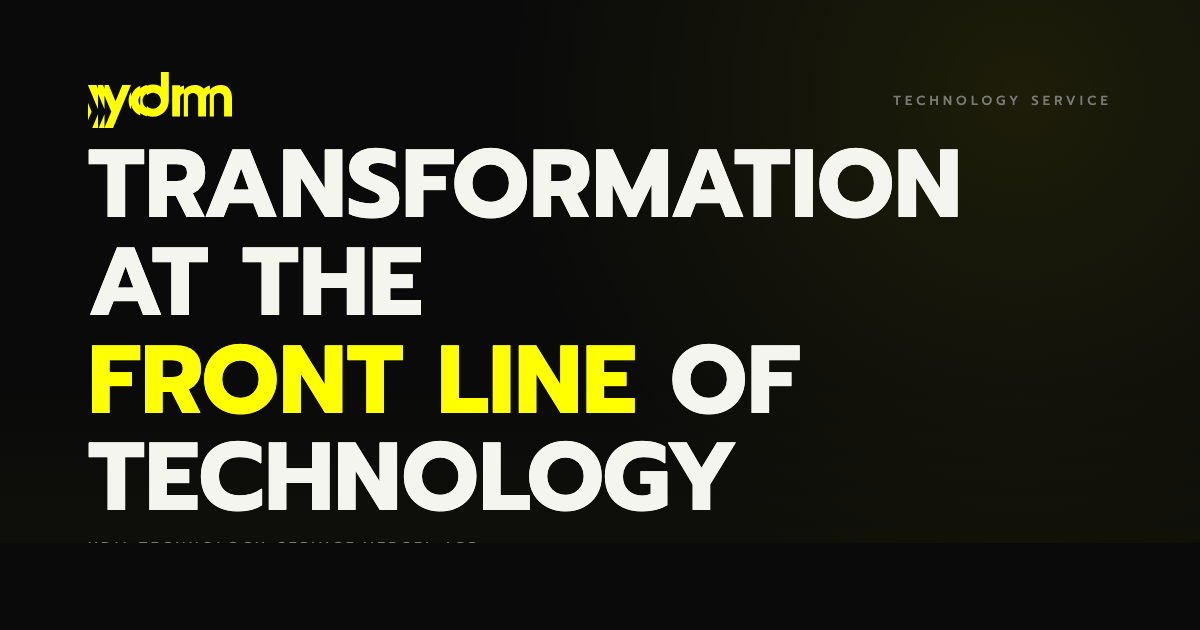
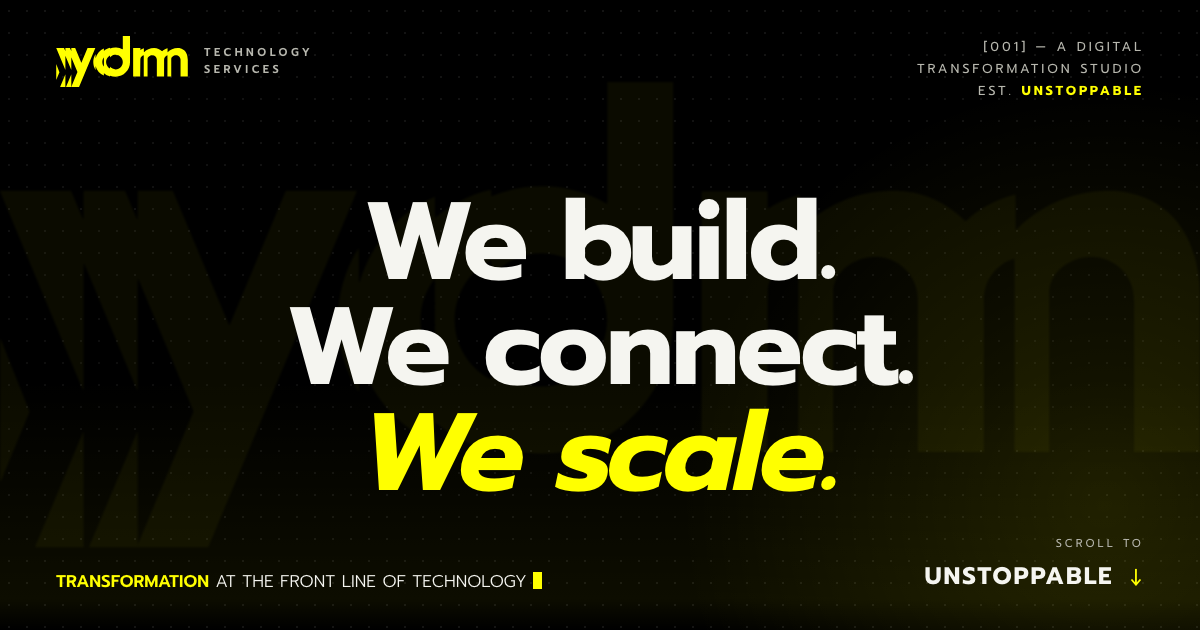
chore: refresh og-image to match new hero, document headless render quirks
OG now mirrors the current hero — three-line "We build / We connect / We scale"
headline, [001] meta, lead + scroll indicator — with a faint YDM watermark and
ASCII-grid texture. CLAUDE.md notes the 1200,720 + Swift top-left crop recipe
since headless Chrome silently clips ~90px at 1200,630.

Changed region(s): [[0.0308, 0.0, 0.9558, 0.8143], [0.0308, 0.9048, 0.4625, 0.9349], [0.7708, 0.8444, 0.9558, 0.9349]]

diff --git a/CLAUDE.md b/CLAUDE.md
@@ -139,7 +139,7 @@ Solution stack always calls all three from `updateBgState` so they stay in sync 
 - **`.section-bg` and `.solution-ascii` are hidden by a TEMP CSS block** in the style block — the BG-video stack at z:-2 + the hero canvas overlay replace their roles. The original markup is preserved in case the design reverts. The TEMP block is labelled `/* TEMP: ... */` and is the single place to remove if you want the slot-internal video, gradient overlay, and burst-canvas behavior back.
 - **Solution BG videos must NOT live inside `.solution-stage`.** Sticky position creates a stacking context that traps internal z-indexes — videos at z:-2 inside the stage still paint above the hero canvas at viewport z:-1. The fixed `.solution-bg-stack` outside the stage is the workaround.
 - **`updateBgState` is the single source of truth** for syncing BG video, hero rain, hero wall alpha, and wall-sweep trigger to the active slot. Both `onScroll` (passes scroll-direction `dir`) and `skipToSlot` (passes idx-comparison `dir`) call it — the click path explicitly because `skipMode` suppresses `onScroll`.
-- **OG image is generated via Chrome headless** from a temporary `og-template.html` (deleted after render). Regenerate with: `"/Applications/Google Chrome.app/Contents/MacOS/Google Chrome" --headless=new --disable-gpu --hide-scrollbars --no-sandbox --window-size=1200,630 --virtual-time-budget=5000 --screenshot="$PWD/og-image.png" "file://$PWD/og-template.html"`.
+- **OG image is generated via Chrome headless** from a temporary `og-template.html` (deleted after render). Render at `--window-size=1200,720` (Chrome headless reserves ~90px vertically — `1200,630` silently clips the bottom of the layout) into `og-image-raw.png`, then top-left crop to 1200x630 with a tiny Swift script using `CGImage.cropping(to:)` (`sips -c` and `--cropOffset` only do center crops; no PIL/ImageMagick on this machine).
 
 ## Workflow
 - Design iterates rapidly via small commits. User reviews in a local Live Server (auto-reload) — do NOT call `open <file>` after each edit.
